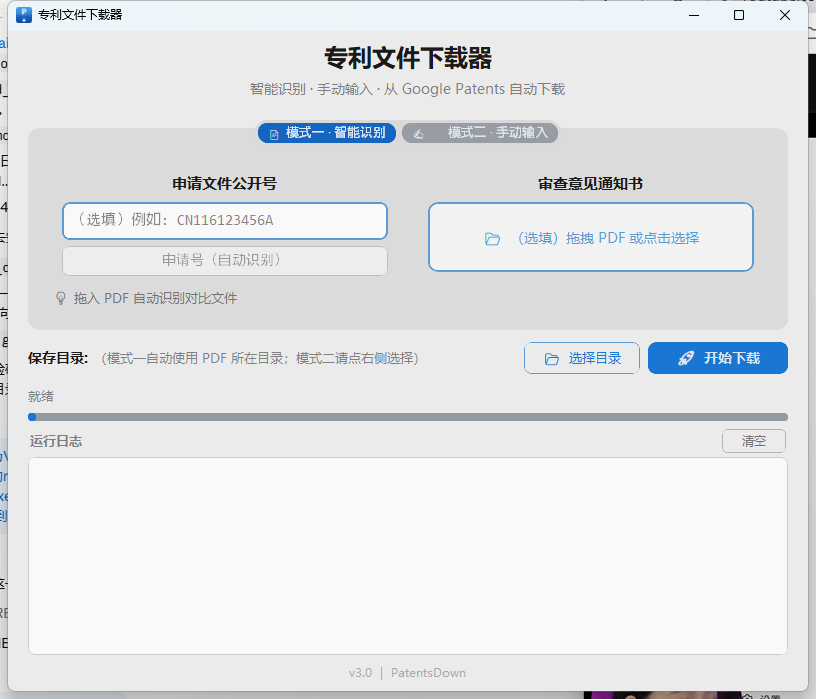
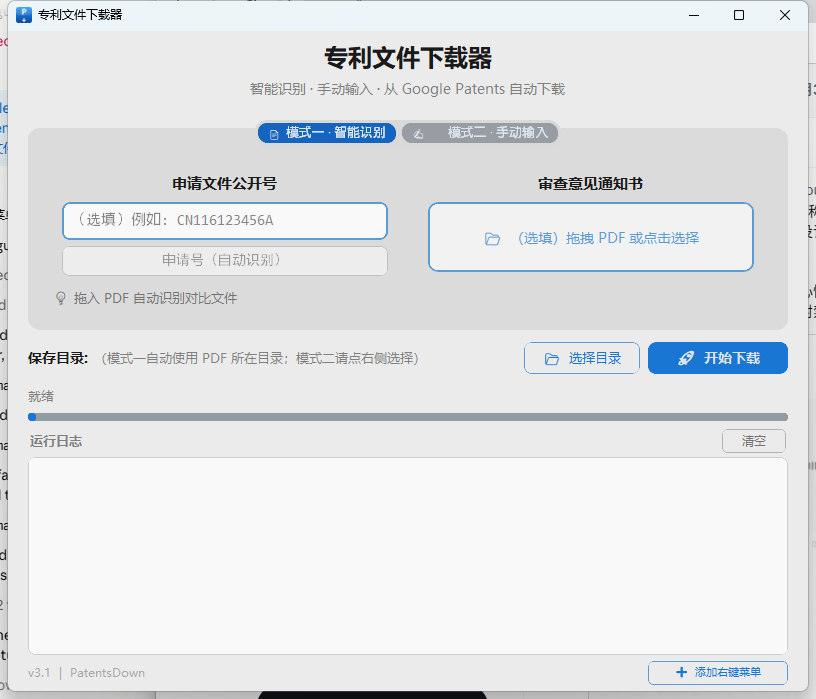
feat: v3.1 — Windows 右键菜单集成
- 新增 shell_menu.py：HKCU 注册表封装，无需管理员权限即可写入右键菜单
- main.py 接受 argv[1] 作为 PDF 路径，启动后自动切到模式一并加载
- footer 增加 [➕ 添加右键菜单] / [✓ 已添加（点击移除）] 一键开关
- 启动时检测右键菜单注册路径是否过期，在日志中提示
- 重构 on_drop / on_click_select 共用 _load_pdf 方法
- README 增加「右键菜单集成」章节与 v3.1 更新日志

右键菜单文字：「专利文件下载」
注册位置：HKCU\Software\Classes\SystemFileAssociations\.pdf\shell\PatentsDown

diff --git a/main.py b/main.py
@@ -7,10 +7,11 @@ import re
 from extractor import process_office_action, extract_text_from_first_page, extract_application_number
 from downloader import process_downloads
 from tkinter import messagebox, filedialog
+import shell_menu
 
 
 APP_NAME = "专利文件下载器"
-APP_VERSION = "v3.0"
+APP_VERSION = "v3.1"
 
 PRIMARY = "#1976D2"
 PRIMARY_HOVER = "#1565C0"
@@ -52,6 +53,10 @@ class App(Tk):
         self._build_header()
         self._build_tabs()
         self._build_shared_area()
+
+        # CLI 参数 + 右键菜单状态检测
+        self._handle_cli_arg()
+        self._check_shell_menu_stale()
 
     # ============================================================
     #  顶部标题
@@ -426,14 +431,33 @@ class App(Tk):
         )
         self.textbox_log.pack(pady=(2, 4), padx=20, fill="both", expand=True)
 
-        # --- 底部版本号 ---
+        # --- 底部：版本号 + 右键菜单设置按钮 ---
+        footer_frame = ctk.CTkFrame(self, fg_color="transparent")
+        footer_frame.pack(fill="x", padx=20, pady=(0, 4))
+
         self.footer = ctk.CTkLabel(
-            self,
+            footer_frame,
             text=f"{APP_VERSION}  |  PatentsDown",
             font=("Microsoft YaHei", 12),
             text_color=("gray65", "gray45"),
         )
-        self.footer.pack(pady=(0, 4))
+        self.footer.pack(side="left")
+
+        self.btn_shell_menu = ctk.CTkButton(
+            footer_frame,
+            text="",  # 在 _refresh_shell_menu_btn 中根据状态填充
+            font=("Microsoft YaHei", 11),
+            height=24,
+            corner_radius=6,
+            fg_color="transparent",
+            border_width=1,
+            text_color=ACCENT_TEXT,
+            border_color=(PRIMARY_LIGHT, PRIMARY_LIGHT_DARK),
+            hover_color=("gray92", "gray22"),
+            command=self._toggle_shell_menu,
+        )
+        self.btn_shell_menu.pack(side="right")
+        self._refresh_shell_menu_btn()
 
     # ============================================================
     #  申请号自动识别 + 点击复制
@@ -511,15 +535,81 @@ class App(Tk):
             self.progress_label.configure(text="正在初始化...")
 
     # ============================================================
+    #  CLI 参数 + 右键菜单
+    # ============================================================
+    def _handle_cli_arg(self):
+        """如果通过右键菜单 / 命令行传入了 PDF 路径，自动切到模式一并加载"""
+        if len(sys.argv) <= 1:
+            return
+        arg = sys.argv[1]
+        if not arg.lower().endswith(".pdf"):
+            return
+        pdf_path = os.path.abspath(arg)
+        if not os.path.isfile(pdf_path):
+            return
+        # 切到模式一并延迟加载（让 UI 渲染完成）
+        self.tabview.set("📄  模式一 · 智能识别")
+        self.after(200, lambda: self._load_pdf(pdf_path))
+
+    def _check_shell_menu_stale(self):
+        """如果右键菜单已注册但指向其它路径，提示用户重新注册"""
+        cur = shell_menu.get_exe_path()
+        reg = shell_menu.get_registered_command()
+        if not cur or not reg:
+            return
+        if cur not in reg:
+            self.log("⚠️ 检测到右键菜单指向旧路径，建议在底部点 [移除] 再 [添加] 重新注册。")
+
+    def _refresh_shell_menu_btn(self):
+        if shell_menu.is_registered():
+            self.btn_shell_menu.configure(
+                text="✓  右键菜单已添加（点击移除）", width=210
+            )
+        else:
+            self.btn_shell_menu.configure(text="➕  添加右键菜单", width=140)
+
+    def _toggle_shell_menu(self):
+        if shell_menu.is_registered():
+            shell_menu.unregister()
+            messagebox.showinfo("已移除", "右键菜单已从系统中移除。")
+            self._refresh_shell_menu_btn()
+            return
+
+        exe_path = shell_menu.get_exe_path()
+        if not exe_path:
+            messagebox.showwarning(
+                "无法注册",
+                "右键菜单仅能在打包后的 exe 中注册。\n\n"
+                "请先用 `pyinstaller PatentsDown.spec --noconfirm --clean` 打包，\n"
+                "然后运行 dist 目录下的 exe，再点此按钮。",
+            )
+            return
+
+        try:
+            shell_menu.register(exe_path)
+        except OSError as e:
+            messagebox.showerror("失败", f"注册失败：{e}")
+            return
+
+        messagebox.showinfo(
+            "已添加",
+            f"右键菜单已添加。\n\n"
+            f"现在可以在任何 PDF 文件上右键 → 「{shell_menu.MENU_TEXT}」\n"
+            f"App 会自动启动并把该 PDF 加载到模式一。\n\n"
+            f"若移动 exe 位置，请先移除再重新添加。",
+        )
+        self._refresh_shell_menu_btn()
+
+    # ============================================================
     #  拖拽 / 文件选择
     # ============================================================
-    def on_drop(self, event):
-        files = self.tk.splitlist(event.data)
-        if not files:
-            return
-        file_path = files[0]
+    def _load_pdf(self, file_path):
+        """统一的 PDF 加载入口：拖拽 / 点击选择 / CLI argv 都走这条路径"""
         if not file_path.lower().endswith(".pdf"):
-            self.log("错误：请拖入 PDF 文件！")
+            self.log("错误：请使用 PDF 文件！")
+            return
+        if not os.path.isfile(file_path):
+            self.log(f"错误：文件不存在 — {file_path}")
             return
         self.pdf_path = file_path
         self._on_drop_leave()
@@ -531,20 +621,19 @@ class App(Tk):
         self.log(f"已选择文件: {os.path.basename(file_path)}")
         self._extract_and_show_app_number(file_path)
 
+    def on_drop(self, event):
+        files = self.tk.splitlist(event.data)
+        if not files:
+            return
+        self._load_pdf(files[0])
+
     def on_click_select(self, event=None):
         file_path = filedialog.askopenfilename(
             title="选择审查意见通知书 PDF",
             filetypes=[("PDF 文件", "*.pdf")],
         )
         if file_path:
-            self.pdf_path = file_path
-            self.label_drop.configure(
-                text=f"✅  {os.path.basename(file_path)}", text_color="green"
-            )
-            self.label_save_dir.configure(text=os.path.dirname(file_path))
-            self.manual_save_dir = None
-            self.log(f"已选择文件: {os.path.basename(file_path)}")
-            self._extract_and_show_app_number(file_path)
+            self._load_pdf(file_path)
 
     def _choose_save_dir(self):
         save_dir = filedialog.askdirectory(title="请选择下载文件的保存目录")

diff --git a/shell_menu.py b/shell_menu.py
@@ -1,0 +1,75 @@
+"""Windows 资源管理器右键菜单注册（HKCU，不需要管理员）
+
+注册位置：HKCU\\Software\\Classes\\SystemFileAssociations\\.pdf\\shell\\PatentsDown
+仅对当前用户生效，无需 UAC 弹窗。
+"""
+import os
+import sys
+
+try:
+    import winreg
+except ImportError:
+    winreg = None  # 非 Windows 平台占位
+
+MENU_TEXT = "专利文件下载"
+BASE_KEY = r"Software\Classes\SystemFileAssociations\.pdf\shell\PatentsDown"
+CMD_KEY = BASE_KEY + r"\command"
+
+
+def get_exe_path():
+    """打包模式返回 exe 完整路径；源码模式返回 None。"""
+    if getattr(sys, "frozen", False):
+        return os.path.abspath(sys.executable)
+    return None
+
+
+def is_registered():
+    if winreg is None:
+        return False
+    try:
+        with winreg.OpenKey(winreg.HKEY_CURRENT_USER, CMD_KEY) as k:
+            value, _ = winreg.QueryValueEx(k, None)
+            return bool(value)
+    except FileNotFoundError:
+        return False
+    except OSError:
+        return False
+
+
+def get_registered_command():
+    """返回当前注册的命令字符串（用于检测 exe 是否被移动）。"""
+    if winreg is None:
+        return None
+    try:
+        with winreg.OpenKey(winreg.HKEY_CURRENT_USER, CMD_KEY) as k:
+            value, _ = winreg.QueryValueEx(k, None)
+            return value
+    except FileNotFoundError:
+        return None
+    except OSError:
+        return None
+
+
+def register(exe_path):
+    """写入右键菜单注册表项。exe_path 必须是绝对路径。"""
+    if winreg is None:
+        raise OSError("winreg 不可用，本功能仅支持 Windows")
+    exe_path = os.path.abspath(exe_path)
+    with winreg.CreateKey(winreg.HKEY_CURRENT_USER, BASE_KEY) as k:
+        winreg.SetValueEx(k, None, 0, winreg.REG_SZ, MENU_TEXT)
+        winreg.SetValueEx(k, "Icon", 0, winreg.REG_SZ, f'"{exe_path}",0')
+    with winreg.CreateKey(winreg.HKEY_CURRENT_USER, CMD_KEY) as k:
+        winreg.SetValueEx(k, None, 0, winreg.REG_SZ, f'"{exe_path}" "%1"')
+
+
+def unregister():
+    """移除右键菜单注册表项。"""
+    if winreg is None:
+        return
+    for key in (CMD_KEY, BASE_KEY):
+        try:
+            winreg.DeleteKey(winreg.HKEY_CURRENT_USER, key)
+        except FileNotFoundError:
+            pass
+        except OSError:
+            pass

diff --git a/README.md b/README.md
@@ -1,4 +1,4 @@
-# 🚀 专利文件下载器 (PatentsDown) v3.0
+# 🚀 专利文件下载器 (PatentsDown) v3.1
 
 一款**零门槛即用**的 Windows 桌面工具，帮助专利代理人 / 审查员从 **审查意见通知书 PDF** 中自动提取对比文件专利号，或**手动输入公开号**，从 [Google Patents](https://patents.google.com/) 批量下载全文 PDF。
 
@@ -6,14 +6,19 @@
 
 ---
 
-## ✨ v3.0 新特性
+## ✨ v3.1 新特性
 
-- 🆕 **双模式标签页**：智能识别 PDF 与手动输入公开号两种工作流彻底分开，互不干扰。
-- 🆕 **模式二 · 手动输入**：动态行 + 2 列网格布局，默认 4 个输入框，可一键增删；输入若干公开号即可批量下载。
-- 🎨 **现代化 GUI 全面重做**：基于 `customtkinter` 重构布局，新图标、统一蓝色主题、紧凑面板、明暗模式自适应。
-- 📐 **紧凑布局**：默认窗口 800×660，更贴合主流笔记本屏幕；切换标签页时下方控件位置固定不抖动。
-- 🆕 **下载按钮归位**：[🚀 开始下载] 与 [📂 选择目录] 同行排列，节省纵向空间。
-- 🆕 **新图标**：蓝色渐变背景 + 白色 `P` 字母 + 向下箭头，标题栏、任务栏、EXE 三处统一。
+- 🆕 **Windows 右键菜单集成**：在资源管理器里右键任意 PDF → 「专利文件下载」即可启动 App 并自动加载到模式一，省去拖拽步骤。
+- 🆕 **CLI 参数支持**：`专利文件下载器_v3.1.exe "C:\path\to\审查意见.pdf"` 启动后自动切到模式一并预加载 PDF。
+- ⚙️ **App 内一键开关**：底部 [➕ 添加右键菜单] 按钮，写入仅当前用户的 HKCU 注册表，无需管理员权限；再次点击即可移除。
+- 🛡️ **路径过期检测**：移动 exe 后启动，App 会在日志中提示重新注册右键菜单。
+
+### v3.0 已有特性（保留）
+
+- **双模式标签页**：智能识别 PDF 与手动输入公开号两种工作流彻底分开，互不干扰。
+- **模式二 · 手动输入**：动态行 + 2 列网格布局，默认 4 个输入框，可一键增删。
+- **现代化 GUI**：基于 `customtkinter`，蓝色主题图标、紧凑布局、明暗模式自适应。
+- **紧凑窗口**：默认 800×660，切换标签页时下方控件位置固定不抖动。
 
 ---
 
@@ -55,7 +60,7 @@
 
 ### 方式一：下载 EXE（推荐，免安装）
 
-直接下载 [PatentsDown_v3.0.exe](https://github.com/vvangpc/PatentsDown/releases/download/v3.0/PatentsDown_v3.0.exe)（46 MB），双击即可运行，无需安装 Python 环境。也可前往 [Releases](https://github.com/vvangpc/PatentsDown/releases/latest) 页面查看历史版本。
+直接下载 [PatentsDown_v3.1.exe](https://github.com/vvangpc/PatentsDown/releases/download/v3.1/PatentsDown_v3.1.exe)（46 MB），双击即可运行，无需安装 Python 环境。也可前往 [Releases](https://github.com/vvangpc/PatentsDown/releases/latest) 页面查看历史版本。
 
 ### 方式二：使用 uv（开发者推荐）
 
@@ -111,6 +116,23 @@ python main.py
 - **增量下载**：再次运行同一任务时，工具会自动跳过已存在且大小 >50KB 的 PDF。
 - **失败处理**：任务结束后日志底部会列出失败专利号，复制后到 [Google Patents](https://patents.google.com/) 手动搜索下载。
 
+### 🪄 Windows 右键菜单集成（v3.1 新增）
+
+把 PDF 解析一步搞定：
+
+1. 把 `专利文件下载器_v3.1.exe` 放在一个**稳定的位置**（建议如 `C:\Tools\` 或固定的工作目录），双击启动。
+2. 在 App 右下角点 `[➕ 添加右键菜单]`，看到「已添加」提示后关闭 App。
+3. 之后在资源管理器里**右键任意 PDF** → 「专利文件下载」即可启动 App 并自动把该 PDF 加载到模式一，点 [🚀 开始下载] 直接下载。
+4. 不需要时在 App 内点 `[✓ 右键菜单已添加（点击移除）]` 即可移除。
+5. 若后续移动了 exe，下次启动时 App 会在日志里提示需要重新注册。
+
+**技术细节**：注册位置 `HKCU\Software\Classes\SystemFileAssociations\.pdf\shell\PatentsDown`，仅作用于当前用户、不需要管理员权限。注册项指向当前 exe 的绝对路径与图标。
+
+也可以通过命令行直接传入 PDF 路径达到同样效果：
+```powershell
+专利文件下载器_v3.1.exe "C:\path\to\审查意见.pdf"
+```
+
 ---
 
 ## 🏗️ 项目结构
@@ -120,6 +142,7 @@ PatentsDown/
 ├── main.py             # GUI 入口（customtkinter + tkinterdnd2，双标签页布局）
 ├── downloader.py       # 下载引擎（requests 直连 + Selenium 回退）
 ├── extractor.py        # PDF 解析（PyMuPDF 提取文本 + 正则匹配专利号）
+├── shell_menu.py       # Windows 右键菜单注册（HKCU winreg）— v3.1 新增
 ├── icon.ico            # 应用图标（多尺寸 ICO）
 ├── PatentsDown.spec    # PyInstaller 打包配置
 ├── pyproject.toml      # 项目元数据与依赖（uv 兼容）
@@ -128,7 +151,8 @@ PatentsDown/
 │   └── make_icon.py    # 图标生成脚本（Pillow）
 ├── docs/
 │   ├── screenshot_mode1.png
-│   └── screenshot_mode2.png
+│   ├── screenshot_mode2.png
+│   └── release_notes_v3.1.md
 └── README.md
 ```
 
@@ -159,13 +183,20 @@ pyinstaller PatentsDown.spec --noconfirm --clean
 uv run pyinstaller PatentsDown.spec --noconfirm --clean
 ```
 
-生成的 EXE 位于 `dist/专利文件下载器_v3.0.exe`（Release 页面以 ASCII 文件名 `PatentsDown_v3.0.exe` 上传），单文件可独立运行。
+生成的 EXE 位于 `dist/专利文件下载器_v3.1.exe`（Release 页面以 ASCII 文件名 `PatentsDown_v3.1.exe` 上传），单文件可独立运行。
 
 ---
 
 ## 📜 更新日志
 
-### v3.0（本次发布）
+### v3.1（本次发布）
+
+- Windows 资源管理器右键菜单集成 — 右键任意 PDF 即可启动并自动加载到模式一。
+- CLI 参数支持 — exe 可接受 PDF 路径作为第一个参数。
+- App 内 [➕ 添加 / 移除右键菜单] 一键开关（HKCU 注册，无需管理员）。
+- 右键菜单指向旧路径时自动在日志中提示重新注册。
+
+### v3.0
 
 - 双模式标签页：智能识别 / 手动输入分开为独立 Tab。
 - 模式二全新 — 2 列网格输入、动态行增删、按行优先重排。

diff --git a/docs/release_notes_v3.1.md b/docs/release_notes_v3.1.md
@@ -1,0 +1,30 @@
+## 🆕 v3.1 — Windows 右键菜单集成
+
+省去「打开 App → 拖文件」两步，直接在资源管理器里右键 PDF 即可开始下载。
+
+### 新特性
+
+- 🪄 **Windows 右键菜单集成**：注册后可在资源管理器里右键任意 PDF → 「专利文件下载」即可启动 App 并自动加载到模式一。
+- ⌨️ **CLI 参数支持**：`专利文件下载器_v3.1.exe "C:\path\to\审查意见.pdf"` 也能达到相同效果。
+- ⚙️ **App 内一键开关**：底部 [➕ 添加右键菜单] 按钮，写入 HKCU 注册表（仅当前用户，**无需管理员**）；再次点击即可移除。
+- 🛡️ **路径过期检测**：移动 exe 后启动，App 会在日志中提示需要重新注册右键菜单。
+
+### 如何使用右键菜单
+
+1. 把 `PatentsDown_v3.1.exe` 放在稳定位置（如 `C:\Tools\`）。
+2. 双击启动 App → 点底部 [➕ 添加右键菜单]。
+3. 之后右键任意 PDF → 「专利文件下载」 → App 启动并加载该 PDF → 点 [🚀 开始下载] 即可。
+
+技术细节：注册位置 `HKCU\Software\Classes\SystemFileAssociations\.pdf\shell\PatentsDown`，纯当前用户级别。
+
+### 下载
+
+- [`PatentsDown_v3.1.exe`](https://github.com/vvangpc/PatentsDown/releases/download/v3.1/PatentsDown_v3.1.exe) — 46 MB，Windows 10/11 单文件免安装。
+
+### 兼容性
+
+- 沿用 v3.0 的双模式标签页 / 现代化 GUI / 紧凑布局。
+- 下载引擎、解析逻辑、所有支持的国家/地区均不变。
+- 拖拽与点击选择 PDF 的原有用法继续可用，不强制使用右键菜单。
+
+完整说明见 [README](https://github.com/vvangpc/PatentsDown/blob/main/README.md)。